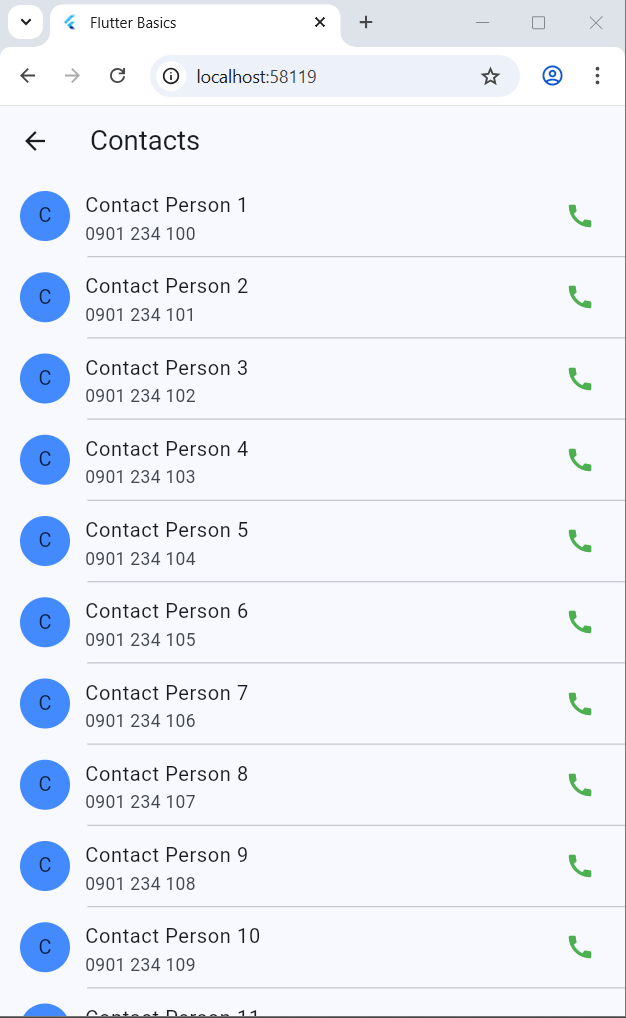
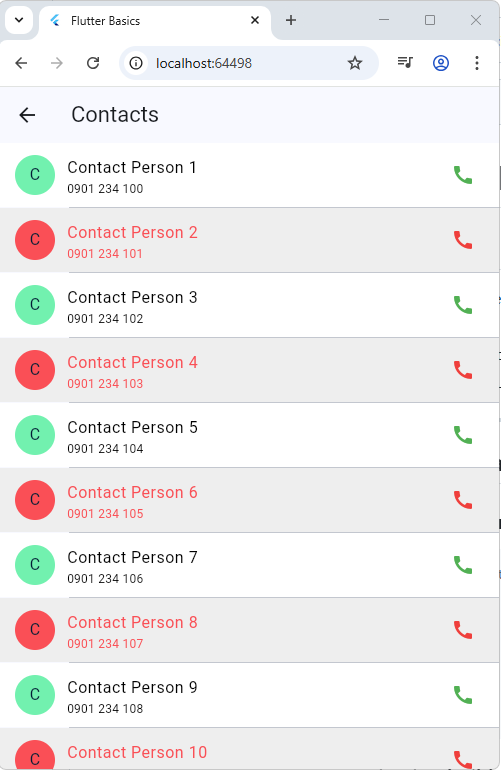
feat: Add new exercises for contact list, product grid, and horizontal categories with corresponding screenshots.

diff --git a/02_flutter_basics/flutter_basics/lib/exercises/ex14_horizontal_categories.dart b/02_flutter_basics/flutter_basics/lib/exercises/ex14_horizontal_categories.dart
@@ -11,8 +11,11 @@
 
 library;
 
+import 'dart:ui';
+
 import 'package:flutter/material.dart';
 
+// Ex14HorizontalCategories - Widget hiển thị danh sách categories
 class Ex14HorizontalCategories extends StatefulWidget {
   const Ex14HorizontalCategories({super.key});
 
@@ -22,6 +25,7 @@ class Ex14HorizontalCategories extends StatefulWidget {
 }
 
 class _Ex14HorizontalCategoriesState extends State<Ex14HorizontalCategories> {
+  // List chứa các category
   final List<String> categories = [
     'All',
     'Fashion',
@@ -44,48 +48,67 @@ class _Ex14HorizontalCategoriesState extends State<Ex14HorizontalCategories> {
           // Khu vực Categories
           // [Quan Trọng] ListView khi nằm trong Column phải có chiều cao xác định.
           // Nếu không có SizedBox bao ngoài, ListView sẽ ko biết nó cao bao nhiêu -> Lỗi layout.
-          SizedBox(
+          Container(
+            margin: EdgeInsets.only(top: 16),
             height: 50, // Chiều cao cố định cho list ngang
-            child: ListView.builder(
-              scrollDirection: Axis.horizontal, // Hướng cuộn: Ngang
-              padding: EdgeInsets.symmetric(horizontal: 16),
-              itemCount: categories.length,
-              itemBuilder: (context, index) {
-                final isSelected = index == _selectedIndex;
-                // GestureDetector: Widget giúp bắt sự kiện chạm (tap, drag...)
-                // vì Container thường ko có sự kiện này.
-                return GestureDetector(
-                  onTap: () {
-                    // Cập nhật UI khi chọn item mới
-                    setState(() {
-                      _selectedIndex = index;
-                    });
-                  },
-                  child: Container(
-                    margin: EdgeInsets.only(right: 12),
-                    padding: EdgeInsets.symmetric(horizontal: 20, vertical: 8),
-                    alignment: Alignment.center,
-                    decoration: BoxDecoration(
-                      // Màu nền thay đổi theo trạng thái
-                      color: isSelected ? Colors.blue : Colors.grey[200],
-                      borderRadius: BorderRadius.circular(25),
-                    ),
-                    child: Text(
-                      categories[index],
-                      style: TextStyle(
-                        // Màu chữ cũng đổi (nền xanh -> chữ trắng, nền xám -> chữ đen)
-                        color: isSelected ? Colors.white : Colors.black,
-                        fontWeight: FontWeight.bold,
+            child: ScrollConfiguration( // ScrollConfiguration và cho phép mouse drag
+              // ScrollConfiguration.of(context) lấy behavior hiện tại của context
+              behavior: ScrollConfiguration.of(context).copyWith(
+                dragDevices: {
+                  PointerDeviceKind.touch, 
+                  PointerDeviceKind.mouse, // ⭐ CHÌA KHÓA
+                },
+              ),
+              child: ListView.builder(
+                scrollDirection: Axis.horizontal, // Hướng cuộn: Ngang
+                padding: EdgeInsets.symmetric(
+                  horizontal: 16,
+                ), // Padding cho list ngang
+                itemCount: categories.length,
+                itemBuilder: (context, index) {
+                  final isSelected = index == _selectedIndex;
+                  // GestureDetector: Widget giúp bắt sự kiện chạm (tap, drag...)
+                  // vì Container thường ko có sự kiện này.
+                  return GestureDetector(
+                    onTap: () {
+                      // Cập nhật UI khi chọn item mới
+                      setState(() {
+                        _selectedIndex = index;
+                      });
+                    },
+                    child: Container(
+                      margin: EdgeInsets.only(
+                        right: 12,
+                      ), // Padding giữa các item
+                      padding: EdgeInsets.symmetric(
+                        horizontal: 20,
+                        vertical: 8,
+                      ), // Padding cho item
+                      alignment: Alignment.center, // Căn giữa chữ
+                      decoration: BoxDecoration(
+                        // Màu nền thay đổi theo trạng thái
+                        color: isSelected ? Colors.blue : Colors.grey[200],
+                        borderRadius: BorderRadius.circular(25),
+                      ),
+                      child: Text(
+                        categories[index],
+                        style: TextStyle(
+                          // Màu chữ cũng đổi (nền xanh -> chữ trắng, nền xám -> chữ đen)
+                          color: isSelected ? Colors.white : Colors.black,
+                          fontWeight: FontWeight.bold,
+                        ),
                       ),
                     ),
-                  ),
-                );
-              },
+                  );
+                },
+              ),
             ),
           ),
 
+          // Divider: Tạo đường kẻ ngang
           Divider(),
 
+          // Hiển thị category được chọn
           Expanded(
             child: Center(
               child: Text(

diff --git a/02_flutter_basics/flutter_basics/lib/exercises/ex13_product_grid.dart b/02_flutter_basics/flutter_basics/lib/exercises/ex13_product_grid.dart
@@ -13,6 +13,7 @@ library;
 
 import 'package:flutter/material.dart';
 
+// Ex13ProductGrid - Widget hiển thị danh sách sản phẩm
 class Ex13ProductGrid extends StatelessWidget {
   const Ex13ProductGrid({super.key});
 
@@ -25,6 +26,7 @@ class Ex13ProductGrid extends StatelessWidget {
       body: GridView.builder(
         padding: EdgeInsets.all(10),
         // gridDelegate: Quy định cấu trúc lưới
+        // [Concept] SliverGridDelegateWithFixedCrossAxisCount: Cấu hình lưới cố định số cột
         gridDelegate: SliverGridDelegateWithFixedCrossAxisCount(
           crossAxisCount: 2, // Số cột: 2
           mainAxisSpacing: 10, // Khoảng cách dọc
@@ -32,15 +34,16 @@ class Ex13ProductGrid extends StatelessWidget {
           childAspectRatio:
               0.75, // Tỷ lệ Chiều Rộng / Chiều Cao (0.75 -> Cao > Rộng)
         ),
-        itemCount: 20,
+        itemCount: 20, // Số lượng sản phẩm
         itemBuilder: (context, index) {
+          // Hàm này được gọi lười (liên tục) khi user cuộn xuống
           return Card(
-            elevation: 2,
+            elevation: 5, // Tạo bóng đổ
             shape: RoundedRectangleBorder(
-              borderRadius: BorderRadius.circular(10),
+              borderRadius: BorderRadius.circular(10), // Bo góc
             ),
             child: Column(
-              crossAxisAlignment: CrossAxisAlignment.start,
+              crossAxisAlignment: CrossAxisAlignment.start, // Text ở đầu
               children: [
                 // Expanded: Phần ảnh chiếm hết khoảng trống còn lại phía trên Text
                 Expanded(
@@ -50,6 +53,7 @@ class Ex13ProductGrid extends StatelessWidget {
                       borderRadius: BorderRadius.vertical(
                         top: Radius.circular(10),
                       ), // Chỉ bo góc trên
+                      // [Concept] DecorationImage: Thêm ảnh vào khung
                       image: DecorationImage(
                         image: NetworkImage(
                           'https://picsum.photos/200?random=$index',
@@ -59,6 +63,7 @@ class Ex13ProductGrid extends StatelessWidget {
                     ),
                   ),
                 ),
+
                 // Phần Text bên dưới
                 Padding(
                   padding: EdgeInsets.all(8),
@@ -66,8 +71,10 @@ class Ex13ProductGrid extends StatelessWidget {
                     crossAxisAlignment: CrossAxisAlignment.start,
                     children: [
                       Text(
-                        'Product $index',
-                        style: TextStyle(fontWeight: FontWeight.bold),
+                        'Product ${index + 1}',
+                        style: TextStyle(
+                            fontWeight: FontWeight.bold, 
+                            fontSize: 16),
                       ),
                       Text(
                         '\$${(index + 1) * 10}.00',

diff --git a/02_flutter_basics/flutter_basics/lib/exercises/ex12_contact_list.dart b/02_flutter_basics/flutter_basics/lib/exercises/ex12_contact_list.dart
@@ -14,6 +14,7 @@ library;
 
 import 'package:flutter/material.dart';
 
+// Ex12ContactList - Widget hiển thị danh sách contact
 class Ex12ContactList extends StatelessWidget {
   const Ex12ContactList({super.key});
 
@@ -38,20 +39,43 @@ class Ex12ContactList extends StatelessWidget {
         // separatorBuilder: Widget phân cách (ở đây dùng Divider)
         separatorBuilder: (context, index) => Divider(
           height: 1,
-          indent: 70,
-        ), // indent: thụt đầu dòng 70px (tránh avatar)
+          indent: 70, // indent: thụt đầu dòng 70px (tránh avatar)
+        ),
         // itemBuilder: Hàm này được gọi lười (liên tục) khi user cuộn xuống
         itemBuilder: (context, index) {
-          final contact = contacts[index];
+          final contact = contacts[index]; // Lấy contact tại vị trí index
           // ListTile: Widget chuẩn của Material hỗ trợ: leading, title, subtitle, trailing
           return ListTile(
+            // tileColor: Màu nền của item
+            tileColor: index % 2 == 0 ? Colors.white : Colors.grey[200],
+            // leading: Widget hiển thị ở đầu hàng (ở đây là avatar)
             leading: CircleAvatar(
-              backgroundColor: Colors.blueAccent,
+              backgroundColor: index % 2 == 0
+                  ? Colors.greenAccent
+                  : Colors.redAccent,
               child: Text(contact['name']![0]), // Lấy chữ cái đầu tiên
             ),
-            title: Text(contact['name']!),
-            subtitle: Text(contact['phone']!),
-            trailing: Icon(Icons.call, color: Colors.green),
+            // title: Widget hiển thị ở giữa hàng (ở đây là tên)
+            title: Text(
+              contact['name']!,
+              style: TextStyle(
+                fontSize: 16,
+                color: index % 2 == 0 ? Colors.black : Colors.redAccent,
+              ),
+            ),
+            // subtitle: Widget hiển thị ở dưới title (ở đây là số điện thoại)
+            subtitle: Text(
+              contact['phone']!,
+              style: TextStyle(
+                fontSize: 12,
+                color: index % 2 == 0 ? Colors.black : Colors.redAccent,
+              ),
+            ),
+            // trailing: Widget hiển thị ở cuối hàng (ở đây là icon call)
+            trailing: index % 2 == 0
+                ? Icon(Icons.call, color: Colors.green)
+                : Icon(Icons.call, color: Colors.red),
+            // onTap: Hàm này được gọi khi user bấm vào item
             onTap: () {
               ScaffoldMessenger.of(context).showSnackBar(
                 SnackBar(content: Text('Calling ${contact['name']}...')),
